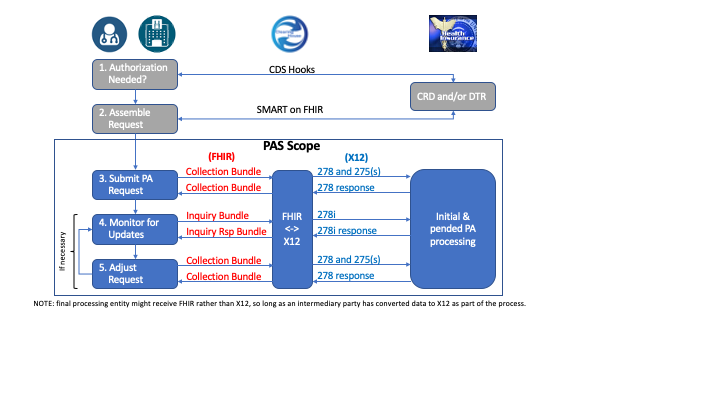
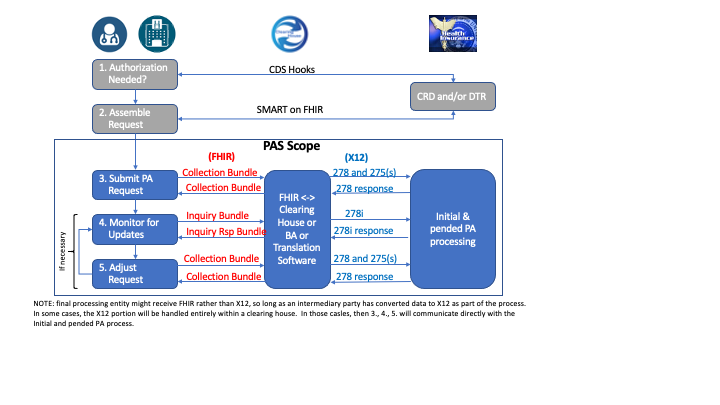
Made more changes due to JIRA tickets.

Changed region(s): [[0.2444, 0.4148, 0.5806, 0.7111], [0.0306, 0.7704, 0.7333, 0.8296]]

diff --git a/fsh/ig-data/input/pagecontent/specification.md b/fsh/ig-data/input/pagecontent/specification.md
@@ -70,7 +70,7 @@ In the event that the prior authorization cannot be evaluated and a final respon
 #### Prior authorization submission
 The Claim/$submit operation is executed by POSTing a FHIR Bundle to the [base url]/Claim/$submit endpoint.  The Bundle can be encoded in either JSON or XML.  (Servers SHALL support both syntaxes.)  The first entry in the Bundle SHALL be a Claim resource complying with the [profile](StructureDefinition-profile-claim.html) defined in this IG to ensure the content is sufficient to appropriately populate an X12N 278 message.  Additional Bundle entries SHALL be populated with any resources referenced by the Claim resource (and any resources referenced by *those* resources, fully traversing all references and complying with all identified profiles).  Note that even if a given resource instance is referenced multiple times, it SHALL only appear in the Bundle once.  Bundle.entry.fullUrl values SHALL be the URL at which the resource is available from the EHR if exposed via the client's REST interface and SHALL be of the form "urn:uuid:[some guid]" otherwise.  All GUIDs used SHALL be unique, including across independent prior authorization submissions - with the exception that the same resource instance being referenced in distinct prior authorization request Bundles can have the same GUID.
 
-In addition to these core elements needed to populate the 278 message, any "supporting information" resources needed to process the prior authorization request (whether determined by DTR processes or by other means) must also be included in the Bundle.  Relevant resources referenced by those "supporting information" resources SHALL also be included (e.g. prescriber Practitioner and Medication for a MedicationRequest).  Any such resource that has a US Core profile SHALL comply with the relevant US Core profiles.  All "supporting information" resources included in the Bundle SHALL be pointed to by the Claim resource using the Claim.supportingInfo.valueReference element.  The Claim.supportingInfo.category should be populated appropriately if possible, using 'other' if no appropriate category is known.  The Claim.supportingInfo.sequence for each entry SHALL be unique within the Claim.
+In addition to these core elements needed to populate the 278 message, any "supporting information" resources needed to process the prior authorization request (whether determined by DTR processes or by other means) must also be included in the Bundle.  Relevant resources referenced by those "supporting information" resources SHALL also be included (e.g. prescriber Practitioner and Medication for a MedicationRequest).  Any such resource that has a US Core profile SHALL comply with the relevant US Core profiles.  All "supporting information" resources included in the Bundle SHALL be pointed to by the Claim resource using the Claim.supportingInfo.valueReference element.  To attach PDFs, CDAs, JPGs, a DocumentReference instance should be used.  The Claim.supportingInfo.sequence for each entry SHALL be unique within the Claim.
 
 All resources SHALL comply with their respective profiles.  FHIR elements not marked as 'must support' MAY be included in resources within the Bundle, but client systems should have no expectation of such elements being processed by the payer unless prior arrangements have been made.  Systems that do not process such elements SHALL ignore unsupported elements unless they are 'modifier' elements, in which case the system MAY treat the presence of the element as an error.
 
@@ -176,7 +176,7 @@ There are four types of changes possible:
 * Certain elements can be revised within a previously submitted item.  Specifically, the Claim.billablePeriod, Claim.item.serviced[x], Claim.item.quantity and Claim.item.net.  This may occur for claims that are pended or claims for which a final authorization decision has been made.  Typically this will be done if there's a need to extend the time-period and/or increase the quantity.  Other types of changes are accomplished by cancelling an existing item and adding a new item.
 * Additional items and/or supporting documentation can be added to the prior authorization request.  This is appropriate if the added items share the same context and should be evaluated in conjuction with the other items in the previously submitted authorization request.  It is also appropriate if the new supporting documentation helps provide justification for the request.
 
-In the first case, the Bundle is resubmitted using the $submit operation with the status code changed to 'cancelled'.  In all other cases, the change is requested by creating a *new* Bundle containing a *new* Claim resource with its own unique Claim.identifier and posting it using the $submit operation.  That resource will point to the previous Claim using the Claim.related element.  The relationship type will be 'replaces'.  The new Claim instance will comply with the [Revised Prior Authorization](StructureDefinition-profile-claim-update.html) profile.
+In the first case, the Bundle is resubmitted using the $submit operation with the status code changed to 'cancelled'.  In all other cases, the change is requested by creating a *new* Bundle containing a *new* Claim resource with its own unique Claim.identifier and posting it using the $submit operation.  That resource will point to the previous Claim using the Claim.related element.  The relationship type will be 'replaces'.  The new claim resource instance will comply with the [Revised Prior Authorization](StructureDefinition-profile-claim-update.html) profile.
 
 From an X12 perspective, only those items/attachments that are being added/cancelled/revised need to be present.  From an HL7 perspective, resources are generally represented as a cohesive whole, not a set of deltas from a previous resource.  This standard therefore provides two different mechanisms for representing the revised prior authorization request:
 

diff --git a/fsh/ig-data/input/pagecontent/usecases.md b/fsh/ig-data/input/pagecontent/usecases.md
@@ -14,7 +14,7 @@ If authorization is required and documentation is necessary to substantiate the 
 
 Currently, under HIPAA, providers and payers are required to use the 5010 version of the ASC X12 278 Health Care Services Review - Request and Response.  See further details on relevant HIPAA requirements [here](regulations.html).  While the X12 275, which is used to transmit additional documentation, is not currently mandated under HIPAA, it is considered reasonable and appropriate to use this X12 transaction to support the exchange of the additional information that is required for prior authorization.
 
-However, adoption of X12 Authorization and Attachment transactions by EHR implementers has been low.  Surveys from CAQH & WEDI indicate that, for 2018, less than 12% of prior authorizations are processed using the 278 request & response.  Clinicians and their office staff spend hours each week trying to verify coverage requirements for specific treatments, submitting prior authorization requests, following up on prior authorization requests, transmitting supporting documentation to support follow-up requests for information and then communicating the prior authorization final decision within the care team and the patient.  Mechanisms include phone, fax, custom portals, but rarely automated data feeds. Automating even a few steps of the prior authorization process could make the work of healthcare team members across the country much easier.
+However, adoption of X12 Authorization and Attachment transactions by EHR implementers has been low.  Surveys from CAQH & WEDI indicate that, for 2018, less than 12% of prior authorizations are processed using the 278 request & response.  A [WEDI survey from January 2020](https://growthzonesitesprod.azureedge.net/wp-content/uploads/sites/1238/2020/01/WEDI-PriorAuthSurveyResults-FINAL.pdf) indicated that only 10% of transactions use the X12 278 and 36% of vendors support X12 for prior authorization.  The [2019 CAQH Index survey](https://www.caqh.org/sites/default/files/explorations/index/report/2019-caqh-index.pdf?token=SP6YxT4u) indicated that <13% of Prior Authorization transactions are X12 278 end-to-end.  Clinicians and their office staff spend hours each week trying to verify coverage requirements for specific treatments, submitting prior authorization requests, following up on prior authorization requests, transmitting supporting documentation to support follow-up requests for information and then communicating the prior authorization final decision within the care team and the patient.  Mechanisms include phone, fax, custom portals, but rarely automated data feeds. Automating even a few steps of the prior authorization process could make the work of healthcare team members across the country much easier.
 
 Discussion with EHR implementers has suggested that a FHIR-based process for submitting prior authorization requests would have significantly higher uptake.  As well, there is a desire by some payers to consume content in FHIR format.  This implementation guide attempts to do that while still retaining compliance with HIPAA requirements.
 
@@ -35,8 +35,17 @@ Currently, the overwhelming majority of real-time responses to the PA request ar
 This implementation guide also supports business requirements around the management of prior authorizations, including checking on the status of 'pended' authorization requests (by the ordering and/or performing providers), cancelling previously submitted prior authorization requests and updating prior authorization requests to reflect changes in clinical need (e.g. changes to the requested quantity or time-period).
 
 ### Work Flow
-Within an EHR Client, the prior authorization request process should be capable of being evoked anywhere within the clinical and administrative workflow that is appropriate for that system. Generally, this will be part of any workflows where a provider has made a decision to pursue a specific course of treatment for which prior authorization might be required.  For example, ordering a specific treatment, diagnostic testing, non-clinical service, referral and or device.  (Note: In the U.S., prior authorizations for medications are typically dealt with through NCPDP and are currently out of scope for this implementation guide.)
+Within an EHR Client, the prior authorization request process should be capable of being evoked anywhere within the clinical and administrative workflow that is appropriate for that system. Generally, this will be part of any workflows where a provider has made a decision to pursue a specific course of treatment for which prior authorization might be required.  For example, ordering a specific treatment, diagnostic testing, non-clinical service, referral and or device.
 
+#### Scope of Work Flow
+In Scope
+1) Prior Auth for services/devices performed/supplied by the ordering provider
+2) Prior Auth for services/devices performed/supplied by a different provider where the ordering provider is required or permitted to request authorization for another entity to provide the services
+3) Prior Auth for medications that are covered under a medical benefit.
+Out Of Scope
+1) SHOULD not be used for any Medication that is covered under a prescription drug program benefit and where PA is provided by another electronic exchange process (e.g. NCPCP Script)
+
+#### Prior Authorization Process
 The prior authorization process from the EHR side consists of five steps:
 1. Determine whether prior authorization is required
 2. Gather information necessary to support the prior authorization request
